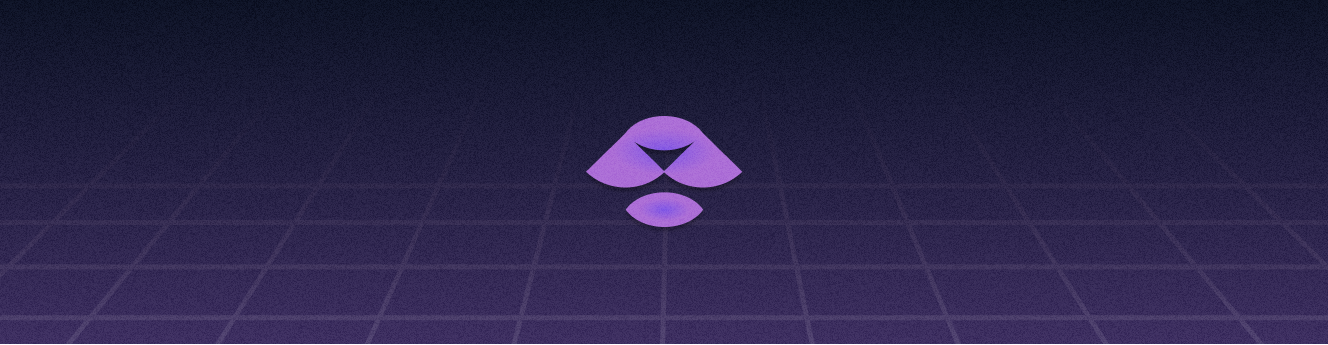
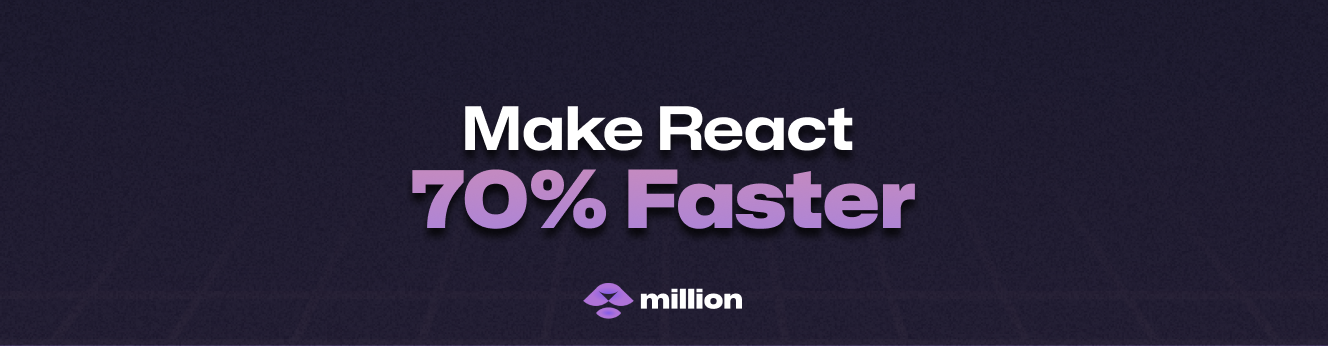
docs: update branding

diff --git a/website/theme.config.tsx b/website/theme.config.tsx
@@ -188,7 +188,10 @@ const config: DocsThemeConfig = {
         : pathname;
     const canonical = new URL(asPath, 'https://million.dev').toString();
 
-    const ogUrl = `https://million.dev/api/og?title=${title}&description=${description}&note=${note}`;
+    const ogUrl =
+      pathname === '/'
+        ? `https://million.dev/default-og.png`
+        : `https://million.dev/api/og?title=${title}&description=${description}&note=${note}`;
 
     return (
       <>

diff --git a/README.md b/README.md
@@ -72,14 +72,14 @@ This repo is a "mono-repo" with modules. Million ships as one NPM package, but h
 
 You can also track our progress through our [Roadmap](https://github.com/users/aidenybai/projects/5/views/1?layout=roadmap).
 
-| Module                                                                                                                                                                  | Description                                      |
-| ----------------------------------------------------------------------------------------------------------------------------------------------------------------------- | ------------------------------------------------ |
-| [`million`](https://github.com/aidenybai/million/tree/main/packages/million)                                                                                            | The main Virtual DOM with all of Million's core. |
-| [`react`](https://github.com/aidenybai/million/tree/main/packages/react) / [`react-server`](https://github.com/aidenybai/million/tree/main/packages/react-server) /     | React compatibility for Million.                 |
-| [`preact`](https://github.com/aidenybai/million/tree/main/packages/preact) / [`preact-server`](https://github.com/aidenybai/million/tree/main/packages/preact-server) / | Preact compatibility for Million.                |
-| [`compiler`](https://github.com/aidenybai/million/tree/main/packages/compiler)                                                                                          | The compiler for Million in React.               |
-| [`jsx-runtime`](https://github.com/aidenybai/million/tree/main/packages/jsx-runtime)                                                                                    | A simple JSX runtime for Million core.           |
-| [`types`](https://github.com/aidenybai/million/tree/main/packages/types)                                                                                                | Shared types between packages                    |
+| Module                                                                                                                                                                | Description                                      |
+| --------------------------------------------------------------------------------------------------------------------------------------------------------------------- | ------------------------------------------------ |
+| [`million`](https://github.com/aidenybai/million/tree/main/packages/million)                                                                                          | The main Virtual DOM with all of Million's core. |
+| [`react`](https://github.com/aidenybai/million/tree/main/packages/react) / [`react-server`](https://github.com/aidenybai/million/tree/main/packages/react-server)     | React compatibility for Million.                 |
+| [`preact`](https://github.com/aidenybai/million/tree/main/packages/preact) / [`preact-server`](https://github.com/aidenybai/million/tree/main/packages/preact-server) | Preact compatibility for Million.                |
+| [`compiler`](https://github.com/aidenybai/million/tree/main/packages/compiler)                                                                                        | The compiler for Million in React.               |
+| [`jsx-runtime`](https://github.com/aidenybai/million/tree/main/packages/jsx-runtime)                                                                                  | A simple JSX runtime for Million core.           |
+| [`types`](https://github.com/aidenybai/million/tree/main/packages/types)                                                                                              | Shared types between packages                    |
 
 ## Resources & Contributing Back
 
